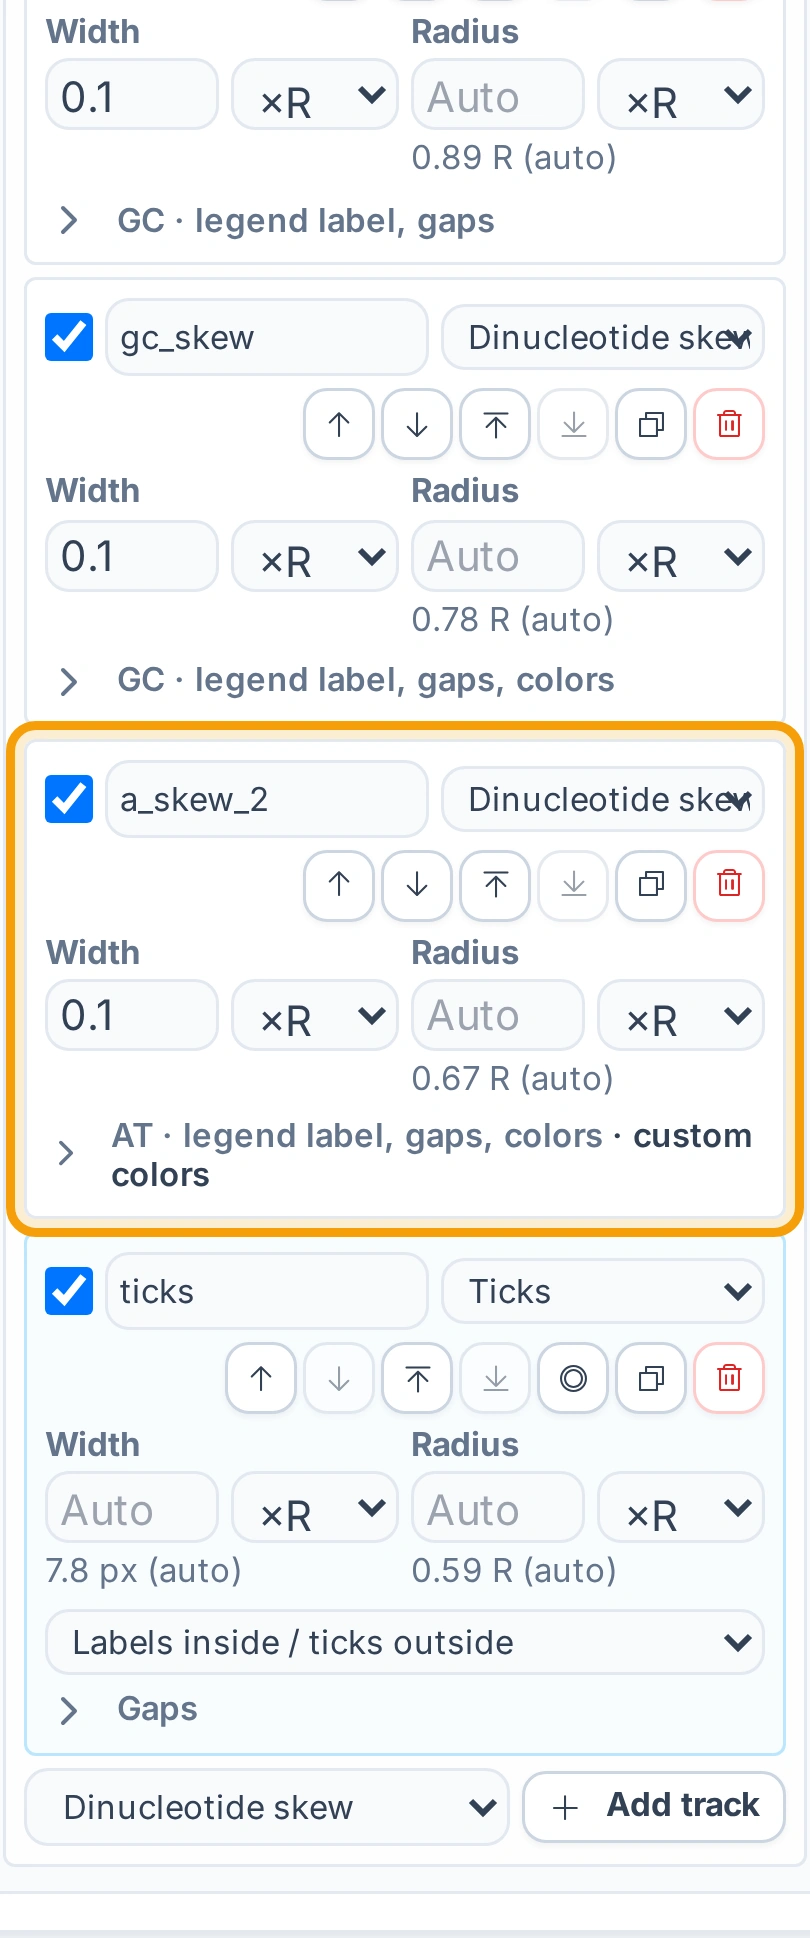
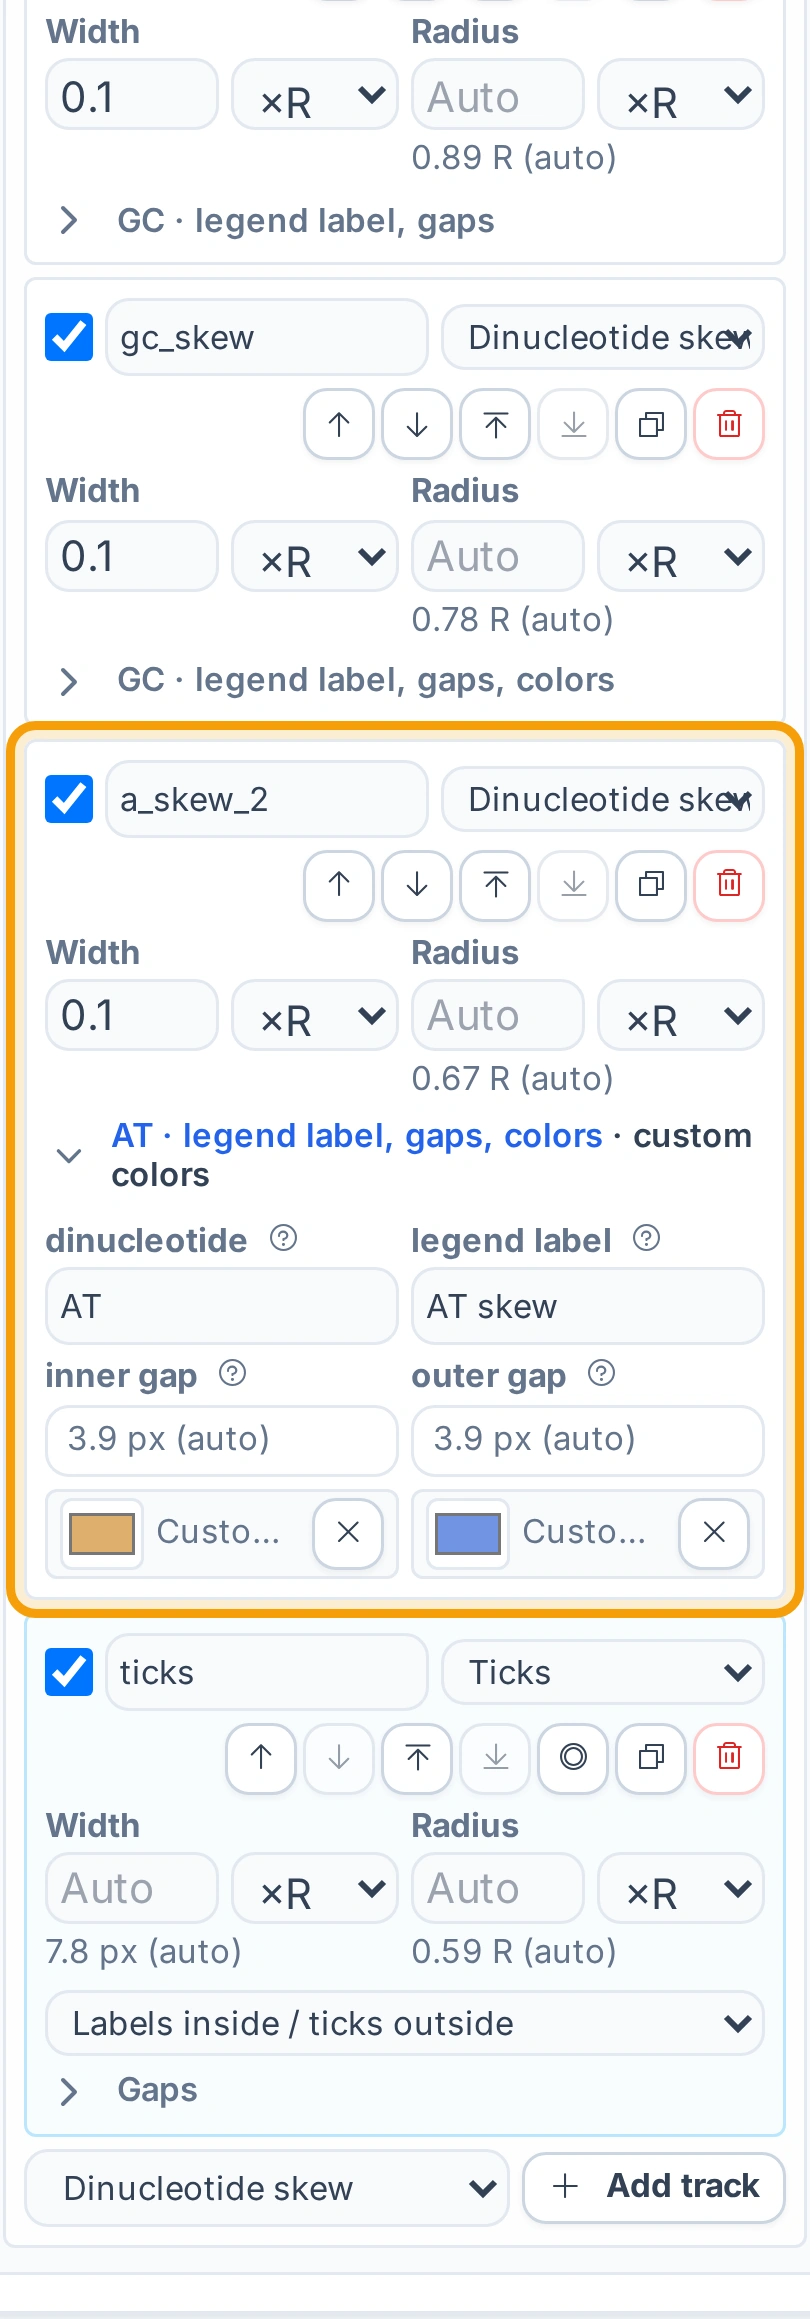
Fix stale color grouping, Reset start focus, and tests for the compact sidebar cards
- A Default colors file now replaces the color table like every other
  writer, so the Colors card regroups and an imported type leaves
  "More colors".
- Reset start focuses the Circular record checkbox when the start field is
  disabled, instead of dropping the keyboard focus.
- OV-421: clearing Display start when no start was requested left the field
  empty; the field now shows the model's start after every change.
- Specs and the Web reference follow the compact annotation row: a selected
  feature's row shows the caption alone (its target kind reads "Selected
  feature"), and the annotation id input is found by its label.
- The HmmtDNA AT skew tutorial step opens the slot's disclosure, declares
  the fields it shows, and says where they are; its image is recaptured.
- The Hepatoplasmataceae capture flow drops a wait for the absence of
  "Loading records..."; the enabled record select that lists the record is
  the proof that the records were read, and the contract test pins it.
- Comments describe their rule without campaign-local ids.

diff --git a/tests/web/sidebar-inputs.playwright.spec.js b/tests/web/sidebar-inputs.playwright.spec.js
@@ -31,6 +31,24 @@ test('OV-374: Display start shows the current start after Inspect', async ({ pag
   await page.keyboard.press('Enter');
   await expect(start).toBeFocused();
   await expect(start).toHaveValue('1');
+
+  // Clearing the field requests no start, also when none was requested, so
+  // it shows the current start again.
+  await start.fill('');
+  await start.press('Tab');
+  await expect(start).toHaveValue('1');
+
+  // With Circular record off the start field is disabled; Reset start then
+  // moves the keyboard focus to that checkbox instead of dropping it.
+  await start.fill('100');
+  await start.press('Tab');
+  const topology = page.getByLabel(/^Circular record NC_012920\.1/);
+  await topology.uncheck();
+  await expect(start).toBeDisabled();
+  await reset.focus();
+  await page.keyboard.press('Enter');
+  await expect(reset).toHaveCount(0);
+  await expect(topology).toBeFocused();
 });
 
 // OV-373: a single-record Circular Session shows its annotation records as a
@@ -61,6 +79,28 @@ test('a color edited under More colors stays there and keeps focus', async ({ pa
   await page.keyboard.press('ArrowUp');
   await expect(more.getByLabel('tmRNA feature color mode')).toHaveValue('none');
   await expect(more.getByLabel('tmRNA feature color mode')).toBeFocused();
+});
+
+// A Default colors file replaces the color table, so a type it colors joins
+// the user's colors in the first list, as a color added by hand does.
+test('a color from a Default colors file leaves More colors', async ({ page }) => {
+  test.setTimeout(240000);
+  await openApp(page);
+  await loadSession(page, 'HmmtDNA_ATskew.gbdraw-session.json');
+  await page.locator('summary[aria-label="Colors"]').click();
+  const more = page.locator('[data-default-colors-more]');
+  await more.locator('summary').click();
+  await expect(more.getByLabel('tmRNA feature color mode')).toBeVisible();
+  await page.getByLabel('Default colors file', { exact: true }).setInputFiles({
+    name: 'colors.tsv', mimeType: 'text/plain', buffer: Buffer.from('tmRNA\t#ff0000\n')
+  });
+  await page.evaluate(async () => {
+    const app = window.__GBDRAW_APP__;
+    await app.waitForAuxiliaryFileImport(app.files.d_color);
+  });
+  await expect.poll(() => page.evaluate(() => window.__GBDRAW_APP__.currentColors.tmRNA)).toBe('#ff0000');
+  await expect(more.getByLabel('tmRNA feature color mode')).toHaveCount(0);
+  await expect(page.getByLabel('tmRNA feature color mode')).toBeVisible();
 });
 
 // OV-379: a loaded Linear Session has not read its records; the record select

diff --git a/tests/web/annotation-feature-identity.playwright.spec.js b/tests/web/annotation-feature-identity.playwright.spec.js
@@ -73,7 +73,7 @@ const annotateSelection = async (page, svgIds) => {
   }
   await expect.poll(() => page.evaluate(() => window.__GBDRAW_APP__.selectedFeatureCount)).toBe(svgIds.length);
   const annotations = panel(page);
-  if (await annotations.getAttribute('open') === null) await annotations.locator('summary').press('Enter');
+  if (await annotations.getAttribute('open') === null) await annotations.locator('summary').first().press('Enter');
   await annotations.getByRole('button', { name: /Add set/ }).click();
   await annotations.getByRole('button', { name: /Selected features/ }).click();
   await settle(page);
@@ -115,7 +115,7 @@ test('OV-03: an annotation of a selected feature on a cropped record stays on it
     envelope: 'outer_bounds', circularPath: 'shortest'
   }]);
   await expect(panel(page).locator('[data-annotation-feature-identity]'))
-    .toHaveText('Selected feature: misc_feature at 2401..2500');
+    .toHaveText('misc_feature at 2401..2500');
 
   await page.evaluate(() => {
     const app = window.__GBDRAW_APP__;
@@ -225,8 +225,8 @@ test('an annotation of one same-coordinate feature in one copy of a record stays
         .find((feature) => feature.biological_feature_id === identity.id && feature.record_key === identity.key));
     }, { id: twin.identity, key: secondKey });
     const annotations = panel(fresh);
-    await annotations.locator('summary').press('Enter');
-    await expect(annotations.locator('[data-annotation-feature-identity]')).toHaveText(`Selected feature: ${caption}`);
+    await annotations.locator('summary').first().press('Enter');
+    await expect(annotations.locator('[data-annotation-feature-identity]')).toHaveText(caption);
     await generate(fresh);
     expect(await drawnAnnotations(fresh)).toEqual(drawn);
   } finally {

diff --git a/gbdraw/web/js/components.js b/gbdraw/web/js/components.js
@@ -375,8 +375,10 @@ export const RecordDisplayControl = {
         error.value = '';
       } catch (failure) {
         error.value = failure.message;
-        event.target.value = props.controller.surfaceFor(props.row).displayStart ?? '';
       }
+      // The field shows the model's start after every change: a rejected value
+      // goes back, and a cleared field shows the current start (OV-421).
+      event.target.value = props.controller.surfaceFor(props.row).displayStart ?? '';
     };
     return { error, setStart, controlAvailable: computed(() => !state.sessionOperationAvailability()), draft: computed(() => props.controller.draftFor(props.row)),
       surface: computed(() => props.controller.surfaceFor(props.row)) };
@@ -432,7 +434,7 @@ export const SpecificRuleRows = {
 };
 
 // The preview of record or title text with italic markup, shown under its
-// field (UX-C06, UX-C15); nothing when the text has no markup.
+// field; nothing when the text has no markup.
 export const MarkupPreview = {
   props: ['text'],
   template: `<p v-if="segments.length" class="markup-preview" :title="segments.map((part) => part.text).join('')" data-markup-preview><span class="sr-only">Preview: </span><span v-for="(part, index) in segments" :key="index" :class="{ italic: part.italic }">{{ part.text }}</span></p>`,

diff --git a/gbdraw/web/index.html b/gbdraw/web/index.html
@@ -8104,7 +8104,7 @@
     </div>
     <div class="flex flex-wrap items-center gap-x-2 gap-y-1">
       <label class="flex items-center gap-1.5">Display start <input ref="start" data-history-managed type="number" min="1" :max="row.recordLength" :value="surface.displayStart" :disabled="!controlAvailable || !surface.startEnabled" @change="setStart($event)" :aria-label="`Display start ${row.recordId} ${row.selector}`" class="form-input form-input-compact w-24"></label>
-      <button v-if="draft.startCoordinate != null" data-history-managed type="button" :disabled="!controlAvailable" @click="$refs.start.focus(); controller.resetStart(row)" class="ml-auto text-[10px] text-blue-600">Reset start</button>
+      <button v-if="draft.startCoordinate != null" data-history-managed type="button" :disabled="!controlAvailable" @click="($refs.start.disabled ? $refs.topology : $refs.start).focus(); controller.resetStart(row)" class="ml-auto text-[10px] text-blue-600">Reset start</button>
     </div>
     <div v-if="error" role="alert" class="text-red-600">{{ error }}</div>
     <div v-if="!surface.startEnabled" class="ui-hint">{{ surface.disabledReason }}</div>

diff --git a/gbdraw/web/js/app/app-setup.js b/gbdraw/web/js/app/app-setup.js
@@ -5878,11 +5878,12 @@ export const createAppSetup = () => {
     })
     : computed(() => state.activeDrawing()[key]));
 
-  // UX-C03: the default colors of the feature types the shown figure draws,
+  // The default colors of the feature types the shown figure draws,
   // and the user's own default colors, come first; the others wait under More.
   // The values are read untracked, so editing a color never moves it to the
   // other grid; the grouping follows the drawn types, the palette, the keys,
-  // and a replaced color table (Reset, palette change, Session load).
+  // and a replaced color table (Reset, palette change, Session load, an
+  // imported Default colors file).
   const defaultColorGroups = computed(() => {
     const drawing = state.activeDrawing();
     /** @type {Record<string, string>} */

diff --git a/gbdraw/web/js/app/watchers.js b/gbdraw/web/js/app/watchers.js
@@ -409,9 +409,7 @@ export const setupWatchers = ({
     const drawing = state.activeDrawing();
     try {
       const { colors, count } = parseColorTable(text);
-      Object.entries(colors).forEach(([key, color]) => {
-        drawing.currentColors.value[key] = color;
-      });
+      drawing.currentColors.value = { ...drawing.currentColors.value, ...colors };
       console.log(`Loaded ${count} colors from file.`);
     } catch (e) {
       errorLog.value = normalizeUserFacingError(e, { stage: 'request-validation' });

diff --git a/gbdraw/web/js/app/annotations/record-selector.js b/gbdraw/web/js/app/annotations/record-selector.js
@@ -144,7 +144,7 @@ export const createAnnotationRecordSelector = ({ getCatalog }) => {
     if (!parsed.selector) return Boolean(current.requiresSelection);
     return !resolvedRecord(current, annotation);
   };
-  // A single-record input needs no record select (UX-C09): the row names
+  // A single-record input needs no record select: the row names
   // its record in a caption, and only several records or a missing target
   // show the select.
   const showsSelect = (annotation) => {

diff --git a/gbdraw/web/js/app/auto-value-display.js b/gbdraw/web/js/app/auto-value-display.js
@@ -115,7 +115,7 @@ const formatFactor = (value) => {
 
 const withAuto = (text) => (String(text || '').trim() ? `${text} (auto)` : '');
 
-// UX-C13: an Auto value that depends on genome size shows the value for the
+// An Auto value that depends on genome size shows the value for the
 // current genome; before its length is known, it says so instead of listing
 // the short- and long-genome values side by side.
 /** @param {string | null} [activeLength] */

diff --git a/gbdraw/web/js/app/circular-track-slots.js b/gbdraw/web/js/app/circular-track-slots.js
@@ -1676,7 +1676,7 @@ export const createCircularTrackSlotEditor = ({ state, changeTrackLayout = (appl
     isManualSlotValue(circularSlotManualValue(slot, field))
   );
 
-  // UX-C10: what the preset draws where, in words; the radius ratios stay
+  // What the preset draws where, in words; the radius ratios stay
   // with the slot fields' Auto values.
   const circularTrackPresetSummary = () => {
     const drawing = state.drawings.circular;

diff --git a/tests/web/linear-multi-record.playwright.spec.js b/tests/web/linear-multi-record.playwright.spec.js
@@ -2791,7 +2791,7 @@ test('Region annotation IDs accept continuous typing without losing focus', asyn
   });
 
   await page.locator('summary[aria-label="Region Annotations"]').press('Enter');
-  const idInput = page.getByPlaceholder('annotation_id');
+  const idInput = page.getByLabel('Annotation id', { exact: true });
   await idInput.selectText();
   await idInput.pressSequentially('Repeat');
 

diff --git a/gbdraw/web/js/utils/markup-preview.js b/gbdraw/web/js/utils/markup-preview.js
@@ -1,6 +1,6 @@
 // @ts-check
 // Record and title text may carry <i>…</i> markup, which the diagram draws in
-// italics (UX-C06, UX-C15). A field shows a preview of that text so the raw
+// italics. A field shows a preview of that text so the raw
 // tags are not the only reading; any other markup stays literal text.
 
 /** @typedef {{ text: string, italic: boolean }} MarkupSegment */

diff --git a/docs/capture/flows/hepatoplasmataceae_losatp.py b/docs/capture/flows/hepatoplasmataceae_losatp.py
@@ -132,16 +132,13 @@ def _set_source_inputs(page: Page) -> None:
         selector = page.get_by_label(
             f"Record selector for sequence {index}", exact=True
         )
+        # The select is enabled, and lists the record, only once the file's
+        # records have been read.
         expect(selector).to_be_enabled(timeout=PYTHON_OPERATION_TIMEOUT_MS)
         expect(selector).to_contain_text(
             fixture[3], timeout=PYTHON_OPERATION_TIMEOUT_MS
         )
         expect(selector).to_have_value("")
-        expect(
-            page.get_by_role(
-                "group", name=f"Linear sequence {index}", exact=True
-            )
-        ).not_to_contain_text("Loading records...")
         expect(
             page.get_by_label(f"Region start for sequence {index}", exact=True)
         ).to_have_value("")
